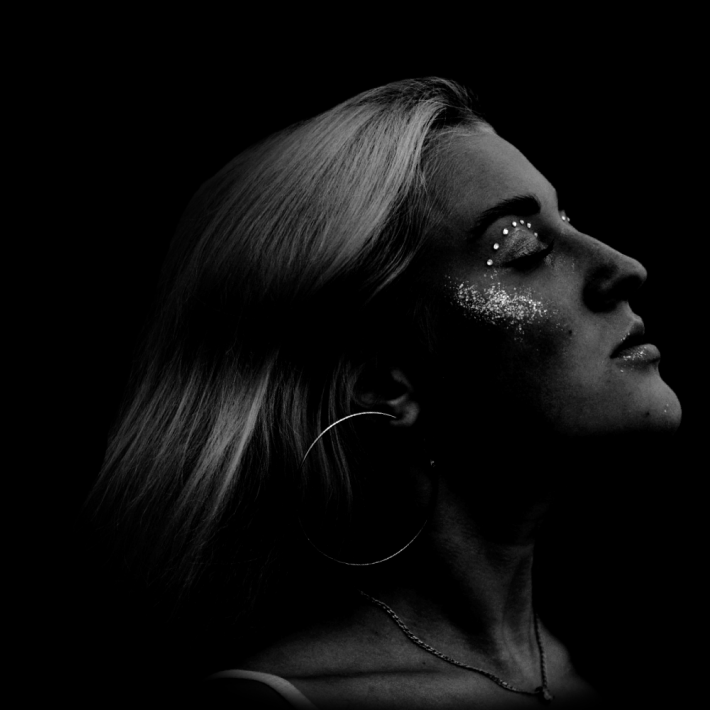
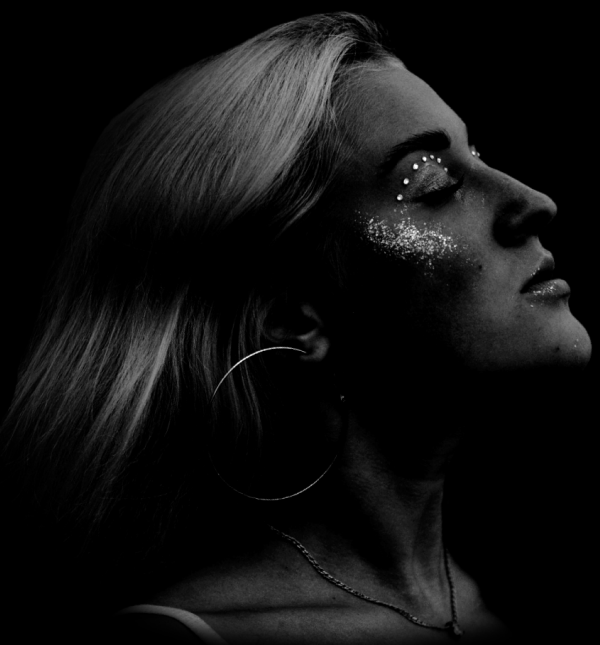
Add files via upload

diff --git a/css/style.css b/css/style.css
@@ -87,31 +87,26 @@ body {
 }
 /*--------------------------*/
 .main__body {
-    position: absolute;
-    top: 0;
-    left: 50%;
-    height: 100%;
-    width: 1040px;
-    transform: translateX(-50%);
-}
-.main__body_title {
+    width: 100%;
     position: absolute;
     top: 50%;
-    right: 0;
     transform: translateY(-50%);
+}
+.main__body_container {
+    margin: 0 auto;
+    width: 1040px;
+    display: flex;
+    align-items: center;
+    justify-content: space-between;
 }
 .main__body_image {
-    position: absolute;
-    top: 0;
-    left: 0;
-    width: 100%;
-    height: 100%;
+    width: 50%;
 }
 .main__image {
-    position: absolute;
-    top: 50%;
-    left: 0;
-    transform: translateY(-50%);
+    width: 100%;
+}
+.main__image img {
+    width: 100%;
 }
 .main__body_conditions {
     width: 1040px;
@@ -171,6 +166,161 @@ a.conditions__style {
 .main__social_item a:hover {
     color: #FFE600;
     transition: 0.5s;
+}
+@media screen and (max-width: 1200px) {
+    .menu__body {
+        width: 800px;
+    }
+    .main__body_container {
+        width: 800px;
+    }
+    .main__body_conditions {
+        width: 800px;
+    }
+}
+@media screen and (max-width: 980px) {
+    .menu__body {
+        width: 700px;
+    }
+    .main__body_container {
+        width: 700px;
+    }
+    .main__body_conditions {
+        width: 700px;
+    }
+    .main__title h1 {
+        font-size: 48px;
+    }
+    .main__subtitle {
+        padding-top: 10px;
+    }
+    .main__subtitle p{
+        font-size: 18px;
+    }
+}
+@media screen and (max-width: 880px) {
+    .menu__body {
+        width: 500px;
+    }
+    .main__body_container {
+        width: 500px;
+    }
+    .main__body_conditions {
+        width: 500px;
+    }
+    .main__title h1 {
+        font-size: 48px;
+    }
+    .main__subtitle {
+        padding-top: 10px;
+    }
+    .main__subtitle p{
+        font-size: 18px;
+    }
+    .page__pagination {
+        right: 30px;
+    }
+    .page__bullet {
+        width: 10px;
+        height: 10px;
+    }
+}
+@media screen and (max-width: 660px) {
+    .menu__body {
+        width: 300px;
+    }
+    .menu__items {
+        justify-content: center;
+    }
+    .menu-item {
+        margin-left: 20px;
+    }
+    .main__body_container {
+        width: 500px;
+        flex-direction: column;
+        justify-content: center;
+    }
+    .main__body_conditions {
+        width: 500px;
+    }
+    .main__title {
+        text-align: center;
+        padding-top: 10px;
+    }
+    .main__title h1 {
+        font-size: 48px;
+    }
+    .main__subtitle {
+        padding-top: 10px;
+        text-align: center;
+    }
+    .main__subtitle p{
+        font-size: 18px;
+    }
+    .main__body_flex {
+        flex-direction: column;
+    }
+    .main__social_icon {
+        padding-top: 20px;
+    }
+    .main__conditions {
+        width: 300px;
+        text-align: center;
+    }
+
+}
+@media screen and (max-width: 505px) {
+    .menu__body {
+        width: 200px;
+    }
+    .menu__items {
+        justify-content: center;
+    }
+    .menu-item {
+        margin-left: 20px;
+    }
+    .main__body_container {
+        width: 200px;
+        flex-direction: column;
+        justify-content: center;
+    }
+    .main__body_image {
+        width: 100%;
+    }
+    .main__body_conditions {
+        width: 200px;
+    }
+    .main__title {
+        text-align: center;
+        padding-top: 10px;
+    }
+    .main__title h1 {
+        font-size: 48px;
+    }
+    .main__subtitle {
+        padding-top: 10px;
+        text-align: center;
+    }
+    .main__subtitle p{
+        font-size: 18px;
+    }
+    .main__body_flex {
+        flex-direction: column;
+    }
+    .main__social_icon {
+        padding-top: 20px;
+    }
+    .main__conditions {
+        width: 200px;
+        text-align: center;
+    }
+    .page__pagination {
+        right: 15px;
+    }
+    .page__bullet {
+        width: 7px;
+        height: 7px;
+    }
 }
 /*---------------------------*/
 .condition__container {
@@ -275,9 +425,11 @@ a.conditions__style {
 }
 .main__body_image._anim-item {
     opacity: 0;
+    transform: translate(-2%, 2%);
     transition: all 1s ease 0.2s;
 }
 .main__body_image._anim-item._anim-active {
     opacity: 1;
+    transform: translate(0, 0);
 }
 /*-----------------*/

diff --git a/index.html b/index.html
@@ -47,19 +47,21 @@
 
 
                 <div class="main__body">
-                    <div class="main__body_title">
-                        <div class="main__title _anim-item">
-                            <h1>vilar_photo</h1>
+                    <div class="main__body_container">
+                        <div class="main__body_image _anim-item">
+                            <div class="main__image">
+                                <img src="img/main-img.png" alt="">
+                            </div>
                         </div>
-                        <div class="main__subtitle _anim-item">
-                            <p>фотографирую Вас так,</p>
-                            <p>чтобы Вы влюбились в себя</p>
+                        <div class="main__body_title">
+                            <div class="main__title _anim-item">
+                                <h1>vilar_photo</h1>
+                            </div>
+                            <div class="main__subtitle _anim-item">
+                                <p>фотографирую Вас так,</p>
+                                <p>чтобы Вы влюбились в себя</p>
+                            </div>
                         </div>
-                    </div>
-                </div>
-                <div class="main__body_image _anim-item">
-                    <div class="main__image">
-                        <img src="img/main-img.png" alt="">
                     </div>
                 </div>
                 <div class="main__body_conditions _anim-item">
